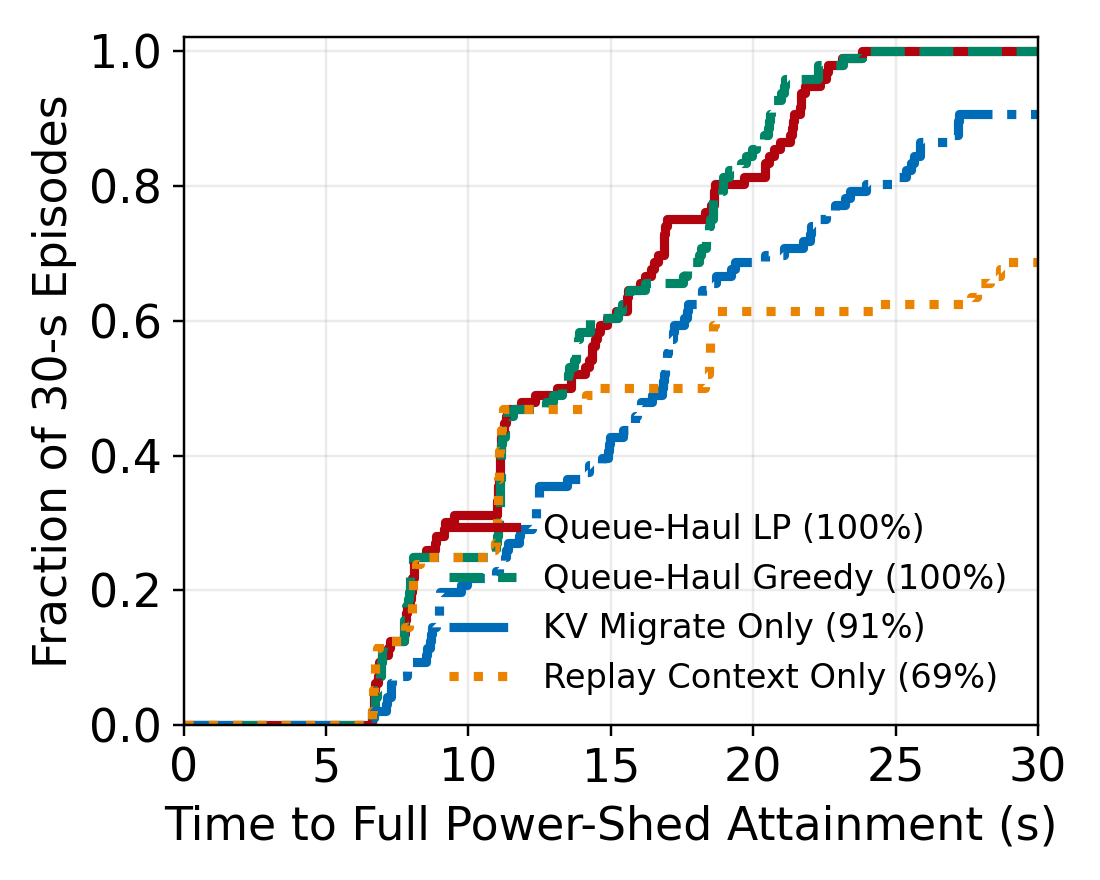
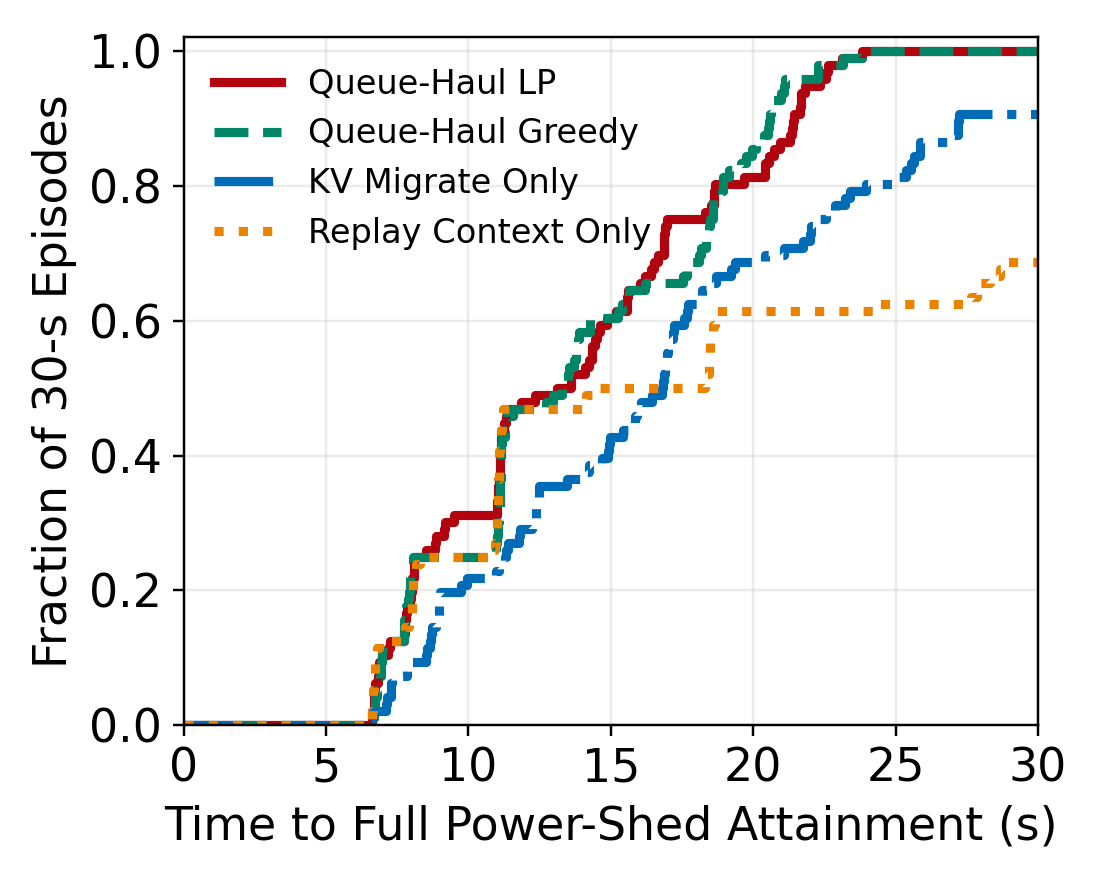
Simplify attainment plot legend

diff --git a/agent-migrate/queue-haul/policy_hardware_campaign.py b/agent-migrate/queue-haul/policy_hardware_campaign.py
@@ -719,7 +719,7 @@ def plot_full_power_attainment(summaries, power_window_s, out,
             ax.step(
                 x, y, where="post", color=CDF_COLORS[policy],
                 linestyle=CDF_LINESTYLES[policy], linewidth=3,
-                label=f"{CDF_LABELS[policy]} ({y[-1]:.0%})",
+                label=CDF_LABELS[policy],
             )
     ax.set(
         xlabel="Time to Full Power-Shed Attainment (s)",
@@ -730,7 +730,8 @@ def plot_full_power_attainment(summaries, power_window_s, out,
     ax.xaxis.label.set_size(15)
     ax.yaxis.label.set_size(15)
     ax.grid(alpha=.25)
-    ax.legend(frameon=False, fontsize=11, loc="lower right")
+    if ax.lines:
+        ax.legend(frameon=False, fontsize=11, loc="upper left")
     fig.tight_layout()
     for suffix in ("png", "pdf"):
         fig.savefig(

diff --git a/agent-migrate/queue-haul/tests/test_policy_hardware_campaign.py b/agent-migrate/queue-haul/tests/test_policy_hardware_campaign.py
@@ -510,6 +510,20 @@ def test_full_power_attainment_keeps_failures_and_power_window():
     assert y.tolist() == [0, .25, .5]
 
 
+def test_full_power_attainment_legend_is_plain_and_upper_left(
+        tmp_path, monkeypatch):
+    monkeypatch.setattr(campaign.plt, "close", lambda _: None)
+    campaign.plot_full_power_attainment([{
+        "policy": "queue_haul", "required_deadline_s": 30,
+        "commit_100_s": 5,
+    }], 5, tmp_path)
+
+    legend = campaign.plt.gcf().axes[0].get_legend()
+    assert [text.get_text() for text in legend.texts] \
+        == [CDF_LABELS["queue_haul"]]
+    assert legend._loc == 2
+
+
 def test_destination_ttft_cdf_includes_migration_time(tmp_path, monkeypatch):
     rows = [
         {"scenario_id": "a", "policy": "queue_haul",
